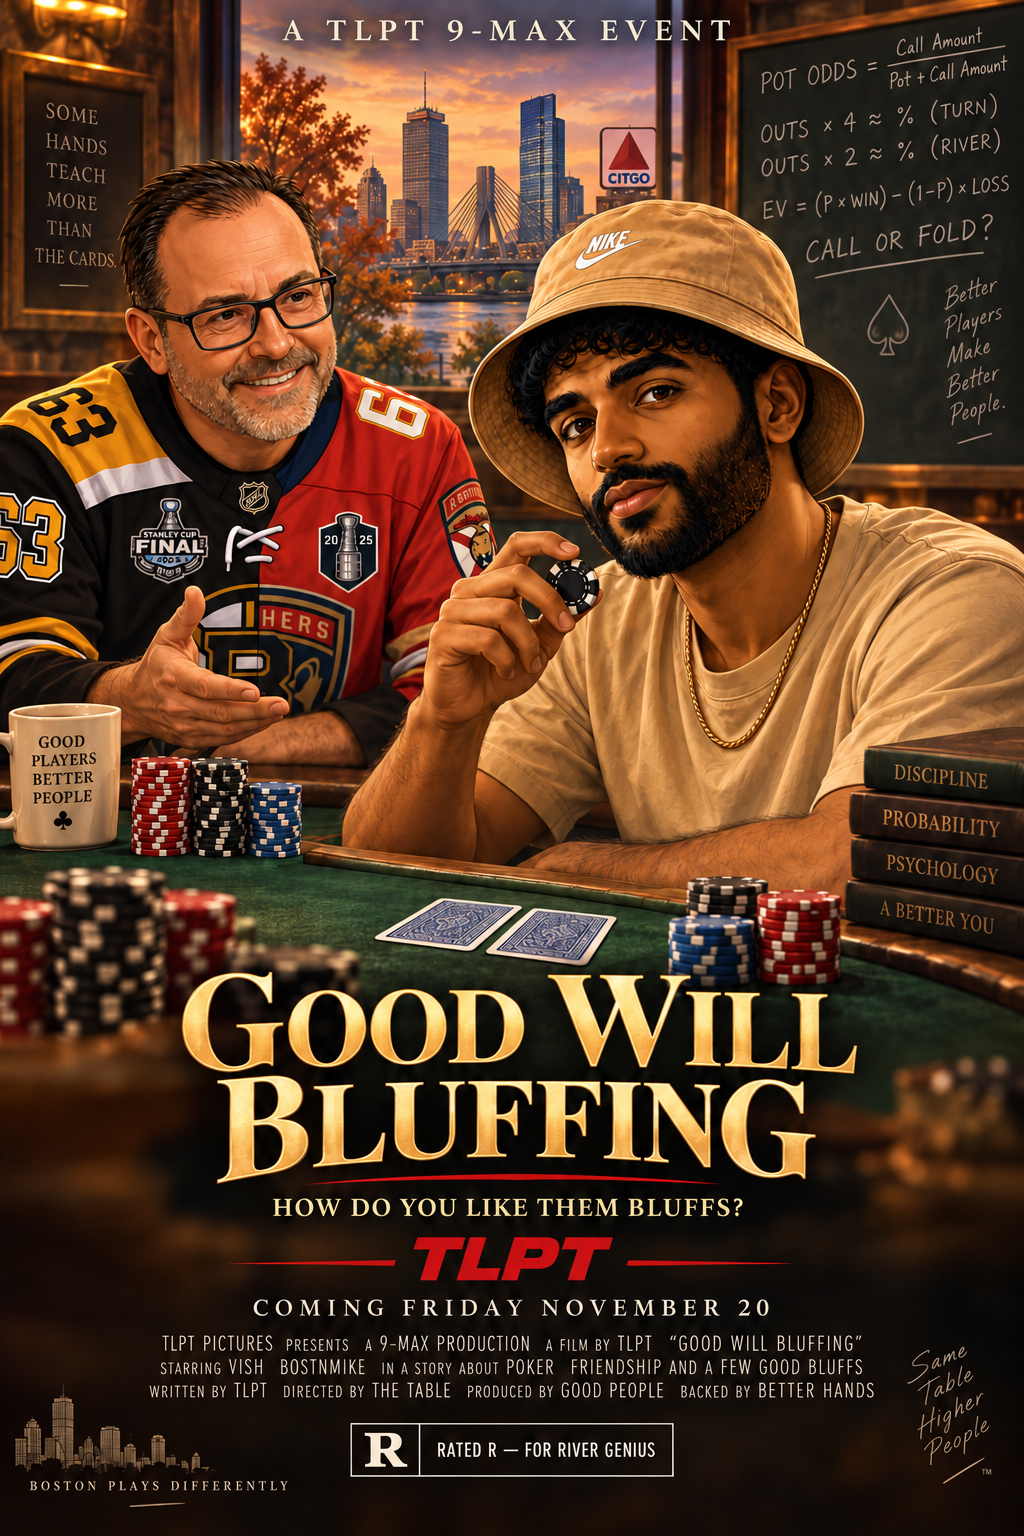
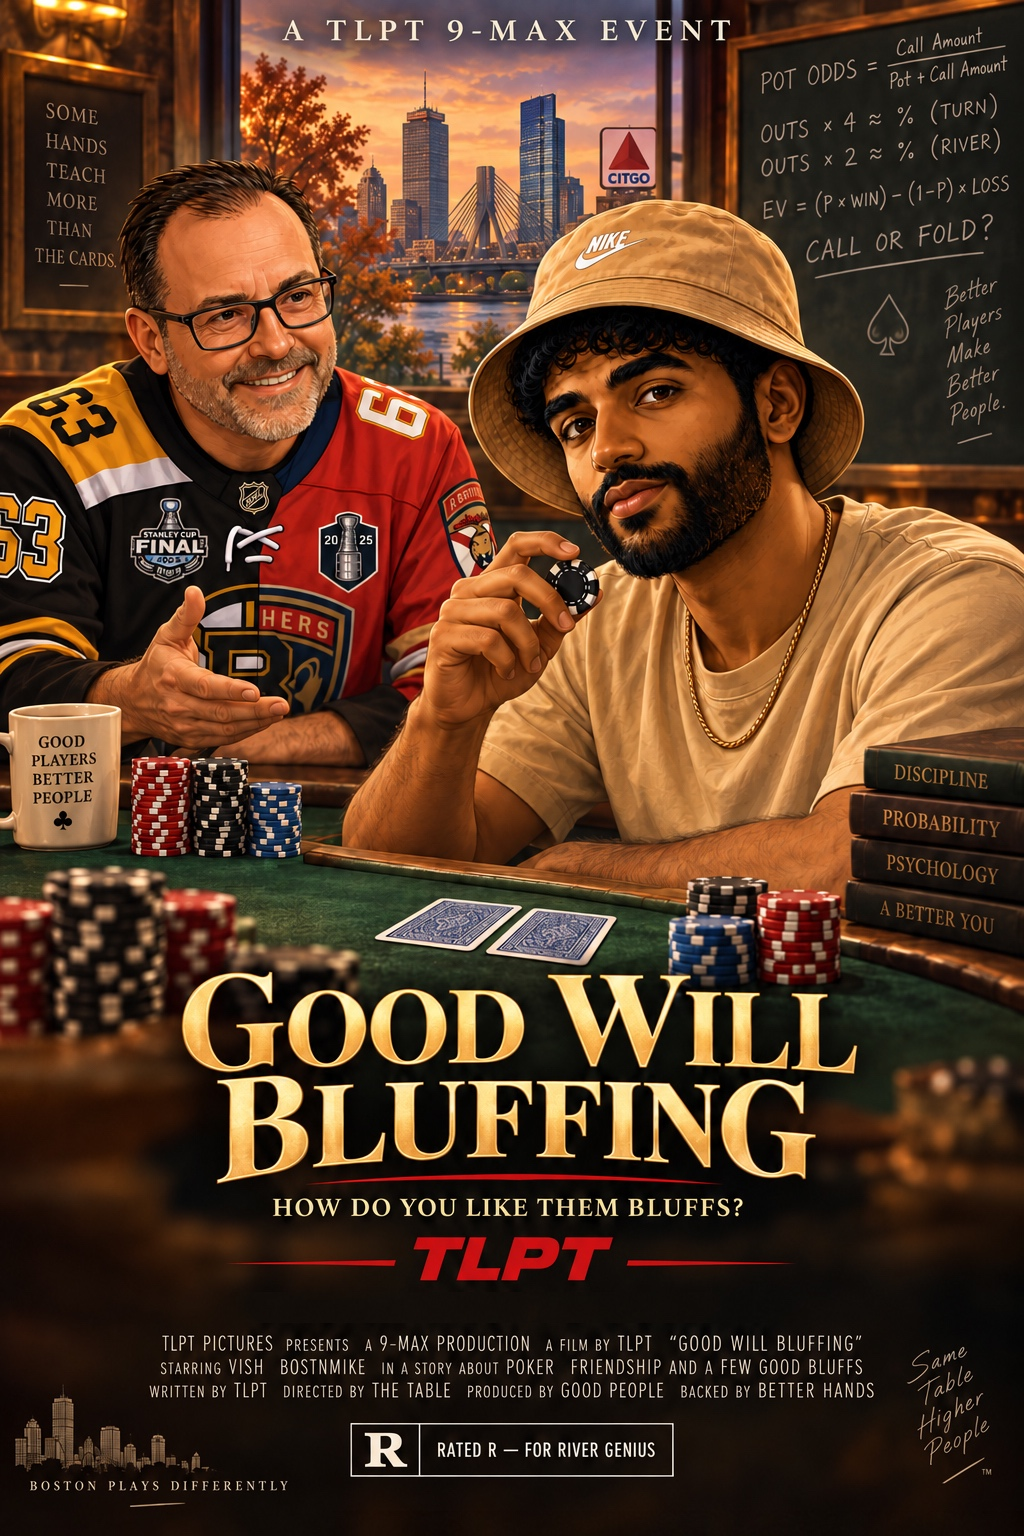
Remove the printed date from Good Will Bluffing

diff --git a/MAINTENANCE-RUNBOOK.md b/MAINTENANCE-RUNBOOK.md
@@ -617,8 +617,11 @@ Legacy manifests without versions continue to work. Rebuild the gallery manifest
 after changing poster bytes and verify the versioned image URLs on the live site.
 
 Good Will Bluffing was postponed from November 20, 2026 to January 22, 2027.
-Its unchanged poster and thumbnail now use `fw27-01-22.jpg`, so date-derived
-site and app poster lookup follows the rescheduled game. The former January 22
+Its poster and thumbnail now use `fw27-01-22.jpg`, so date-derived
+site and app poster lookup follows the rescheduled game. The printed
+“COMING FRIDAY NOVEMBER 20” line was removed; all artwork outside that narrow
+date strip is preserved in the lossless master. Export both the full-size image
+and its matching thumbnail, then rebuild content versions. The former January 22
 All-In Street artwork had already moved to `fw26-12-26.jpg` and remains there
 unchanged. RSVP owns the event date, closed status and retained host seat.
 
